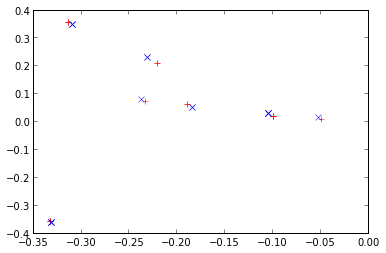
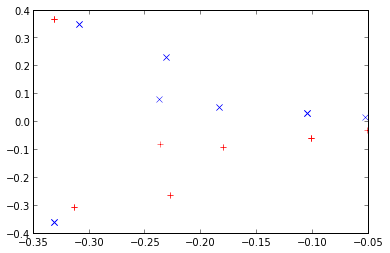
-

diff --git a/stat/stat_hadoop_rand_proj/stat_hadoop_rand_proj.tex b/stat/stat_hadoop_rand_proj/stat_hadoop_rand_proj.tex
@@ -169,19 +169,21 @@ imshow(imread("proj.png"))
 \end{center}
 \end{codeoutput}
 \end{codecell}
-Eger bellekte tutmuyorsak rasgele matrisin degerlerini her seferinde
-tekrar uretmek gerekir. Hiz acisindan performans cok kotu olmayacaktir,
-cunku rasgele sayi uretimi toplama, carpma, $mod$ gibi direk
-matematiksel hesaplar ile yapilir.
+Eger bellekte tutmuyorsak rasgele matrisin degerlerini (sadece
+ilgilendigimiz oge icin, tum matrisi degil) her seferinde tekrar uretmek
+gerekir. Hiz acisindan performans cok kotu olmayacaktir, cunku rasgele
+sayi uretimi toplama, carpma, $mod$ gibi direk matematiksel hesaplar ile
+yapilir.
 
 Fakat burada onemli bir diger konu sudur: her $A$ satiri icin ayni
-rasgele matrisi arka arkaya uretebilmeliyiz.
+rasgele matris (ogelerini) ayni sekilde uretebilmeliyiz.
 
 Bu problemin en basit cozumu rasgele sayi uretimi icin tohum (seed)
 kullanimidir. Eger tohum kullanilmazsa, Python random paketindeki
 uretici cagrilar gunun zamanina gore bir tohum kullanirlar, ve boylece
-her cagri degisik bir sayi uretir. Fakat rasgele sayi uretimini, ``her
-seferinde ayni sekilde'' yaptirmanin yolu vardir, bunun icin tohum
+her cagri degisik bir sayi uretmis olur (cunku komut isletildigi her
+seferinde gunun zamani degisiktir). Fakat rasgele sayi uretimini, ``her
+seferinde ayni sekilde'' yaptirmanin yolku vardir, bunun icin tohum
 disaridan set edilir ve boylece ayni tohumdan baslayan rasgele sayi
 uretim zinciri hep ayni olur. Rasgele sayi uretimi deterministik bir
 algoritmadir, zaten literaturde bu islem ``yari rasgele sayi uretimi
@@ -209,7 +211,6 @@ print random.gauss(0,1), random.gauss(0,1)
 \begin{codeinput}
 \begin{lstlisting}
 # tohumlu
-
 random.seed(100000)
 print random.gauss(0,1), random.gauss(0,1)
 random.seed(100000)
@@ -224,18 +225,17 @@ print random.gauss(0,1), random.gauss(0,1)
 \end{verbatim}
 \end{codeoutput}
 \end{codecell}
-Ustteki kodda ayni tohumu verince arka arkaya uretilen iki (ya da daha
-fazla) ``rasgele'' sayinin hep ayni oldugunu goruyoruz.
+Ustteki kodda ayni tohumu verince arka arkaya uretilen iki (daha fazla
+da olabilirdi) ``rasgele'' sayinin hep ayni oldugunu goruyoruz.
 
-Rasgele matrise donersek, eger bu matrisin her veri satiri icin hucre
-degerlerinin ayni sekilde uretilmesini istiyorsak, tohum kullanmaliyiz.
-Tohum degeri ne olacak? Bu deger mesela $n \times k$ boyutundaki rasgele
-matris icin indis degerleri yanyana koyularak uretilebilir, mesela 111.
-satir ve 2. kolon icin 1112 tohum degeri kullanilir, ve bu tohumla tek
-bir rasgele sayi uretilir, (111,2) hucresine konulur ve sonraki indis
-icin yeni bir tohum kullanilir.
-
-Ust uste cakismalar olabilir tabii ki, mesela 11. satir 12. kolon da
+Rasgele ``matrise'' donersek, eger bu matrisin her $A$ veri satiri icin
+hucre degerlerinin ayni sekilde uretilmesini istiyorsak, tohum
+kullanmaliyiz. Tohum degeri ne olacak? Bu deger mesela $n \times k$
+boyutundaki rasgele matris icin indis degerleri yanyana koyularak
+uretilebilir, mesela 111. satir ve 2. kolon icin 1112 tohum degeri
+kullanilir, ve bu tohumla tek bir rasgele sayi uretilir, (111,2)
+hucresine konulur ve sonraki indis icin yeni bir tohum kullanilir. Evet
+ust uste cakismalar olabilir tabii ki, mesela 11. satir 12. kolon da
 ustteki tohumla ayni sonucu getirir, ama bu tur nadir cakismalar o kadar
 onemli degil, sonucta rasgele sayilarla ugrasiyoruz, ``yeterince
 raslantisal olmalari'' kafi.
@@ -281,13 +281,14 @@ if __name__ == '__main__':
 Tek bir esle cagrisi var, cunku carpim islemi oldukca basit, indirgeme
 islemine gerek yok.
 
-Satirlar icin anahtar kullanmiyoruz, yani verinin paralel islenirken
-nasil yuk dagitimi yapildigina gore sonuc matrisinin sirasi ana matrisin
-satir sirasina uymayabilir. Fakat satir sirasi bizim icin cogunlukla
-onemli olmuyor (kolon sirasi onemli), her satir digerinden ayri bir
-verini temsil eder cogunlukla. Eger zamansal bir boyut var ise, o bilgi
-ayri bir kolon (mesela tarih, zaman damgasi -timestamp-) olarak veride
-bulunurdu.
+Cikti icin yield ile yayinladigimiz (emit) satirlarda anahtar
+kullanmiyoruz, yani verinin paralel islenirken nasil yuk dagitimi
+yapildigina gore sonuc matrisinin sirasi ana matrisin satir sirasina
+uymayabilir. Fakat satir sirasi bizim icin cogunlukla onemli olmuyor
+(kolon sirasi onemli), cunku genelde, her satir, digerinden ayri /
+bagimsiz bir veri olcumunu temsil eder cogunlukla. Eger zamansal bir
+boyut var ise, bazi seyler arka arkaya islenmeliyse, o bilgi ayri bir
+kolon (mesela tarih, zaman damgasi -timestamp-) olarak veride bulunurdu.
 
 \begin{codecell}
 \begin{codeinput}
@@ -379,9 +380,8 @@ class MRProj(MRJob):
         line_sps = sparse.coo_matrix(line_vals,shape=(1,len(line_vals)))
         result = np.zeros(self.k)
         for xx,j,v in itertools.izip(line_sps.row, line_sps.col, line_sps.data):
-            for i in range(self.k):
-                random.seed(int(j + i))
-                result[i] += v*random.gauss(0,1)
+            np.random.seed(j)
+            result += v*np.random.randn(self.k)
         yield (None,",".join(map(str,result)))
             
 if __name__ == '__main__':
@@ -397,7 +397,9 @@ kat bir performans iyilestirmesi saglayacak demektir (bu arada seyrek
 verilerde yuzde 2 doluluk gayet normal bir rakamdir). Sadece dolu
 hucreleri ziyaret ediyoruz, ayrica izip bu dolu hucrelerin indis
 degerlerini de bize geri getiriyor, biz de bu degerleri seed icin
-onceden oldugu gibi kullaniyoruz.
+onceden oldugu gibi kullaniyoruz. Bir diger ilerleme $K$ tane rasgele
+sayiyi bir kerede uretiyoruz, ve tohum ayarlamasini bir kere, dis dongu
+basinda gerceklestiriyoruz.
 
 Sonuclara bakalim:
 
@@ -412,27 +414,27 @@ Sonuclara bakalim:
 \begin{codeoutput}
 \begin{verbatim}
 using configs in /home/burak/.mrjob.conf
-creating tmp directory /tmp/mrprojs.burak.20131002.173847.485554
-writing to /tmp/mrprojs.burak.20131002.173847.485554/step-0-mapper_part-00000
+creating tmp directory /tmp/mrprojs.burak.20131104.083708.890659
+writing to /tmp/mrprojs.burak.20131104.083708.890659/step-0-mapper_part-00000
 \end{verbatim}
 \begin{verbatim}
 Counters from step 1:
   (no counters found)
-Moving /tmp/mrprojs.burak.20131002.173847.485554/step-0-mapper_part-00000 -> /tmp/mrprojs.burak.20131002.173847.485554/output/part-00000
-Streaming final output from /tmp/mrprojs.burak.20131002.173847.485554/output
-removing tmp directory /tmp/mrprojs.burak.20131002.173847.485554
+Moving /tmp/mrprojs.burak.20131104.083708.890659/step-0-mapper_part-00000 -> /tmp/mrprojs.burak.20131104.083708.890659/output/part-00000
+Streaming final output from /tmp/mrprojs.burak.20131104.083708.890659/output
+removing tmp directory /tmp/mrprojs.burak.20131104.083708.890659
 \end{verbatim}
 \begin{verbatim}
-20.2369671373,13.9358970644,0.524561578258
-19.8581349841,13.7724732852,5.23992858318
-27.6790861925,18.8833585029,-1.56199395804
-9.3255498646,7.52383094482,2.58977793605
-27.3677257439,33.0438553532,18.4819155509
-27.6790861925,18.8833585029,-1.56199395804
-9.3255498646,7.52383094482,2.58977793605
-27.3677257439,33.0438553532,18.4819155509
-27.6790861925,18.8833585029,-1.56199395804
-9.3255498646,7.52383094482,2.58977793605
+20.4375200961,1.09117093744,-9.27846872665
+13.2830062024,-0.654868464606,-9.66445859893
+26.4299520755,0.628144156713,-14.4142094864
+9.52053667131,0.337287636006,-3.17826479151
+34.6111912648,-0.763663777689,-2.06399979621
+26.4299520755,0.628144156713,-14.4142094864
+9.52053667131,0.337287636006,-3.17826479151
+34.6111912648,-0.763663777689,-2.06399979621
+26.4299520755,0.628144156713,-14.4142094864
+9.52053667131,0.337287636006,-3.17826479151
 \end{verbatim}
 \end{codeoutput}
 \end{codecell}
@@ -478,15 +480,15 @@ plt.show()
 \begin{codeoutput}
 \begin{verbatim}
 using configs in /home/burak/.mrjob.conf
-creating tmp directory /tmp/mrprojs.burak.20131002.185301.111949
-writing to /tmp/mrprojs.burak.20131002.185301.111949/step-0-mapper_part-00000
+creating tmp directory /tmp/mrprojs.burak.20131104.083713.982603
+writing to /tmp/mrprojs.burak.20131104.083713.982603/step-0-mapper_part-00000
 \end{verbatim}
 \begin{verbatim}
 Counters from step 1:
   (no counters found)
-Moving /tmp/mrprojs.burak.20131002.185301.111949/step-0-mapper_part-00000 -> /tmp/mrprojs.burak.20131002.185301.111949/output/part-00000
-Streaming final output from /tmp/mrprojs.burak.20131002.185301.111949/output
-removing tmp directory /tmp/mrprojs.burak.20131002.185301.111949
+Moving /tmp/mrprojs.burak.20131104.083713.982603/step-0-mapper_part-00000 -> /tmp/mrprojs.burak.20131104.083713.982603/output/part-00000
+Streaming final output from /tmp/mrprojs.burak.20131104.083713.982603/output
+removing tmp directory /tmp/mrprojs.burak.20131104.083713.982603
 \end{verbatim}
 \begin{center}
 \includegraphics[width=0.7\textwidth]{stat_hadoop_rand_proj_files/stat_hadoop_rand_proj_fig_01.png}
@@ -494,6 +496,6 @@ removing tmp directory /tmp/mrprojs.burak.20131002.185301.111949
 \end{center}
 \end{codeoutput}
 \end{codecell}
-Sonuclar mukemmel.
+Sonuclar fena degil.
 
 \end{document}

diff --git a/stat/stat_hadoop_rnd_svd/mrjob/mrproj.py b/stat/stat_hadoop_rnd_svd/mrjob/mrproj.py
@@ -18,17 +18,20 @@ class MRProj(MRJob):
         super(MRProj, self).configure_options()
         self.add_passthrough_option('--k')
         self.add_passthrough_option('--n')
+        self.randoms = {}
         
     def __init__(self, *args, **kwargs):
         super(MRProj, self).__init__(*args, **kwargs)
 
     def mapper(self, key, line):
         line = line.replace('"','')
-        line_sps = mrc.line_to_coo(line, int(self.options.n))
+        line_sps = mrc.key_val_to_coo(line, int(self.options.n))
         result = np.zeros(int(self.options.k))
         for xx,j,v in itertools.izip(line_sps.row, line_sps.col, line_sps.data):
-            np.random.seed(j)
-            result += v*np.random.randn(int(self.options.k))
+            if j not in self.randoms: 
+                np.random.seed(j)
+                self.randoms[j] = np.random.randn(int(self.options.k)) 
+            result += v*self.randoms[j]
         yield long(key), ";".join(map(lambda x: str(np.round(x,3)),result))
         
             

diff --git a/stat/stat_hadoop_rnd_svd/mrjob/mrc.py b/stat/stat_hadoop_rnd_svd/mrjob/mrc.py
@@ -1,14 +1,11 @@
 from mrjob.job import MRJob
-from mrjob.protocol import PickleProtocol
-from mrjob.protocol import RawValueProtocol
-from mrjob.protocol import RawProtocol
 import numpy as np, sys, itertools
-from scipy import sparse
+import scipy.sparse as sps, re
 
-def line_to_coo(line, dim):
-    tokens = line.split(";")
-    line_sps = sparse.lil_matrix((1,dim))
-    for tok in tokens:
-        tmp = tok.split(":"); line_sps[ 0,long(tmp[0]) ] = np.float(tmp[1])
+def key_val_to_coo(line, dim):
+    line_sps = sps.lil_matrix((1,dim))
+    ids = re.findall("(\d+):(\d+)",line)
+    def f(x): line_sps[0,long(x[0])] = np.float(x[1])
+    map(f, ids)
     return line_sps.tocoo()
     

diff --git a/stat/stat_hadoop_rand_proj/mrprojs.py b/stat/stat_hadoop_rand_proj/mrprojs.py
@@ -17,7 +17,7 @@ class MRProj(MRJob):
         line_sps = sparse.coo_matrix(line_vals,shape=(1,len(line_vals)))
         result = np.zeros(self.k)
         for xx,j,v in itertools.izip(line_sps.row, line_sps.col, line_sps.data):
-            random.seed(j)
+            np.random.seed(j)
             result += v*np.random.randn(self.k)
         yield (None,",".join(map(str,result)))
             
